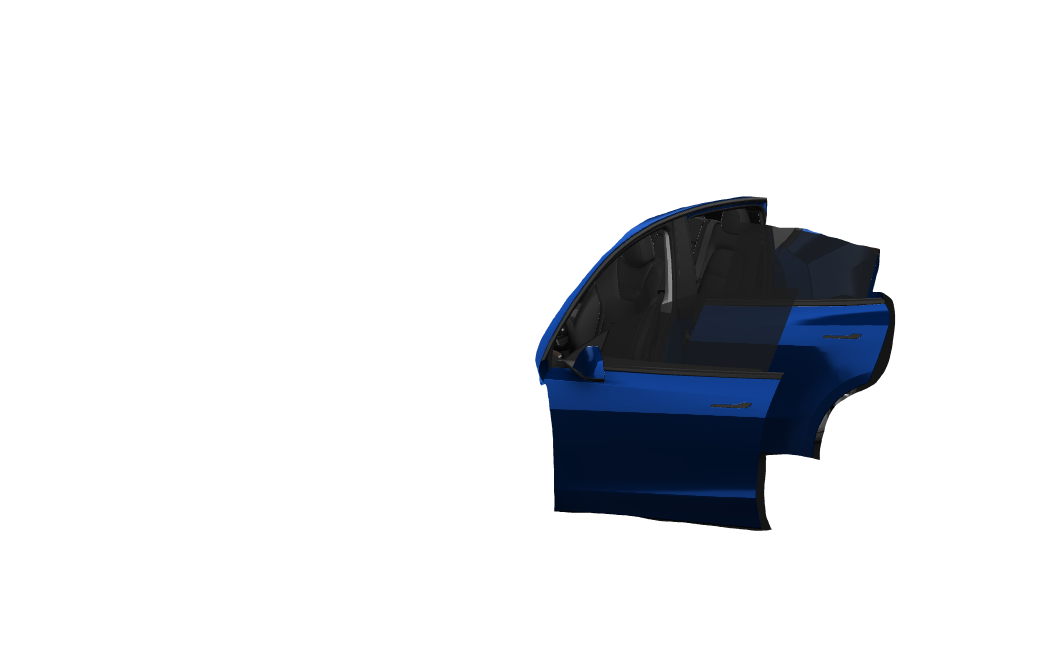
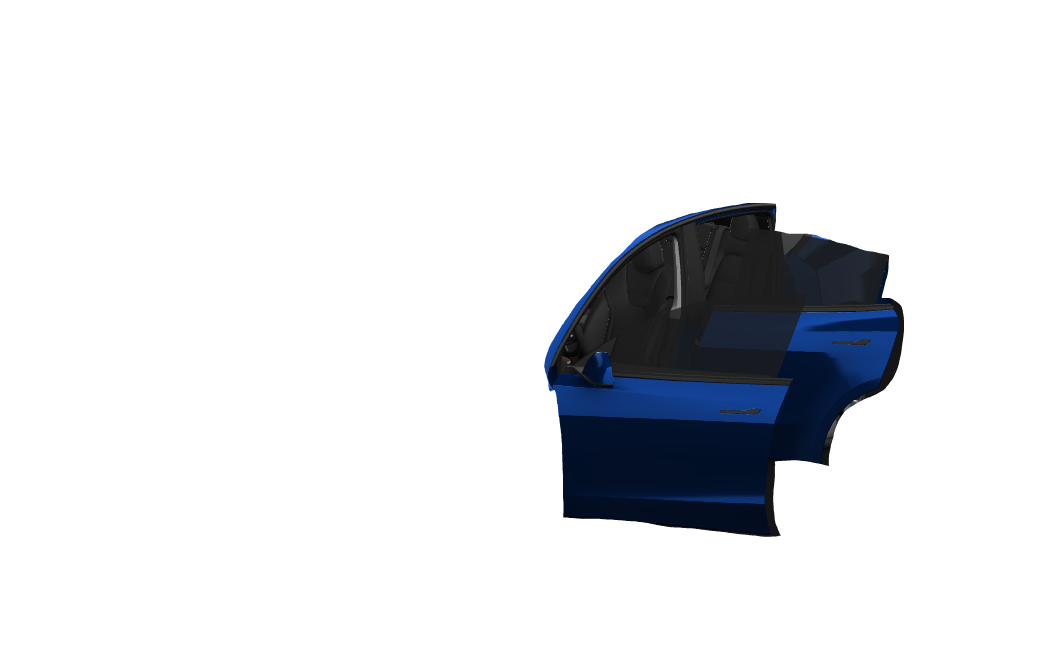
fix: nf-nr combined mask alignment + blue cable overlay detection
- Repositioned offcharge nf-nr-combined mask from (535,197) to (544,203)
  to eliminate slight jump when toggling near-side doors
- Broadened cable detection to catch blue/cyan cables (in addition to
  green) — Deep Blue Metallic renders a blue cable that the green-only
  filter missed, preventing oncharge-cable-overlay.png generation

Changed region(s): [[0.4962, 0.2691, 0.8684, 0.8072]]

diff --git a/scripts/imaging/overlays.py b/scripts/imaging/overlays.py
@@ -510,9 +510,19 @@ def generate_overlays(processed_dir, output_dir, mode="offcharge",
     if mode == "oncharge":
         base_arr = np.array(base_img)
         rgb_f = base_arr[:, :, :3].astype(np.float64)
-        cable_mask = ((rgb_f[:, :, 1] > 80) &
-                      (rgb_f[:, :, 1] > rgb_f[:, :, 0] + 30) &
-                      (rgb_f[:, :, 1] > rgb_f[:, :, 2] + 15))
+        r, g, b = rgb_f[:, :, 0], rgb_f[:, :, 1], rgb_f[:, :, 2]
+        brightness = (r + g + b) / 3
+        # Detect green cables (G dominant) OR blue/cyan cables (B dominant,
+        # bright, low red — only in bottom 40% to avoid catching car body)
+        green_cable = (g > 80) & (g > r + 30) & (g > b + 15)
+        h_base = base_arr.shape[0]
+        blue_cable = np.zeros_like(green_cable)
+        y_cutoff = int(h_base * 0.6)
+        blue_cable[y_cutoff:] = ((b[y_cutoff:] > 130) &
+                                 (g[y_cutoff:] > 70) &
+                                 (r[y_cutoff:] < 80) &
+                                 (brightness[y_cutoff:] > 80))
+        cable_mask = green_cable | blue_cable
         if np.any(cable_mask):
             cable_rgba = np.zeros_like(base_arr)
             cable_rgba[cable_mask] = base_arr[cable_mask]
